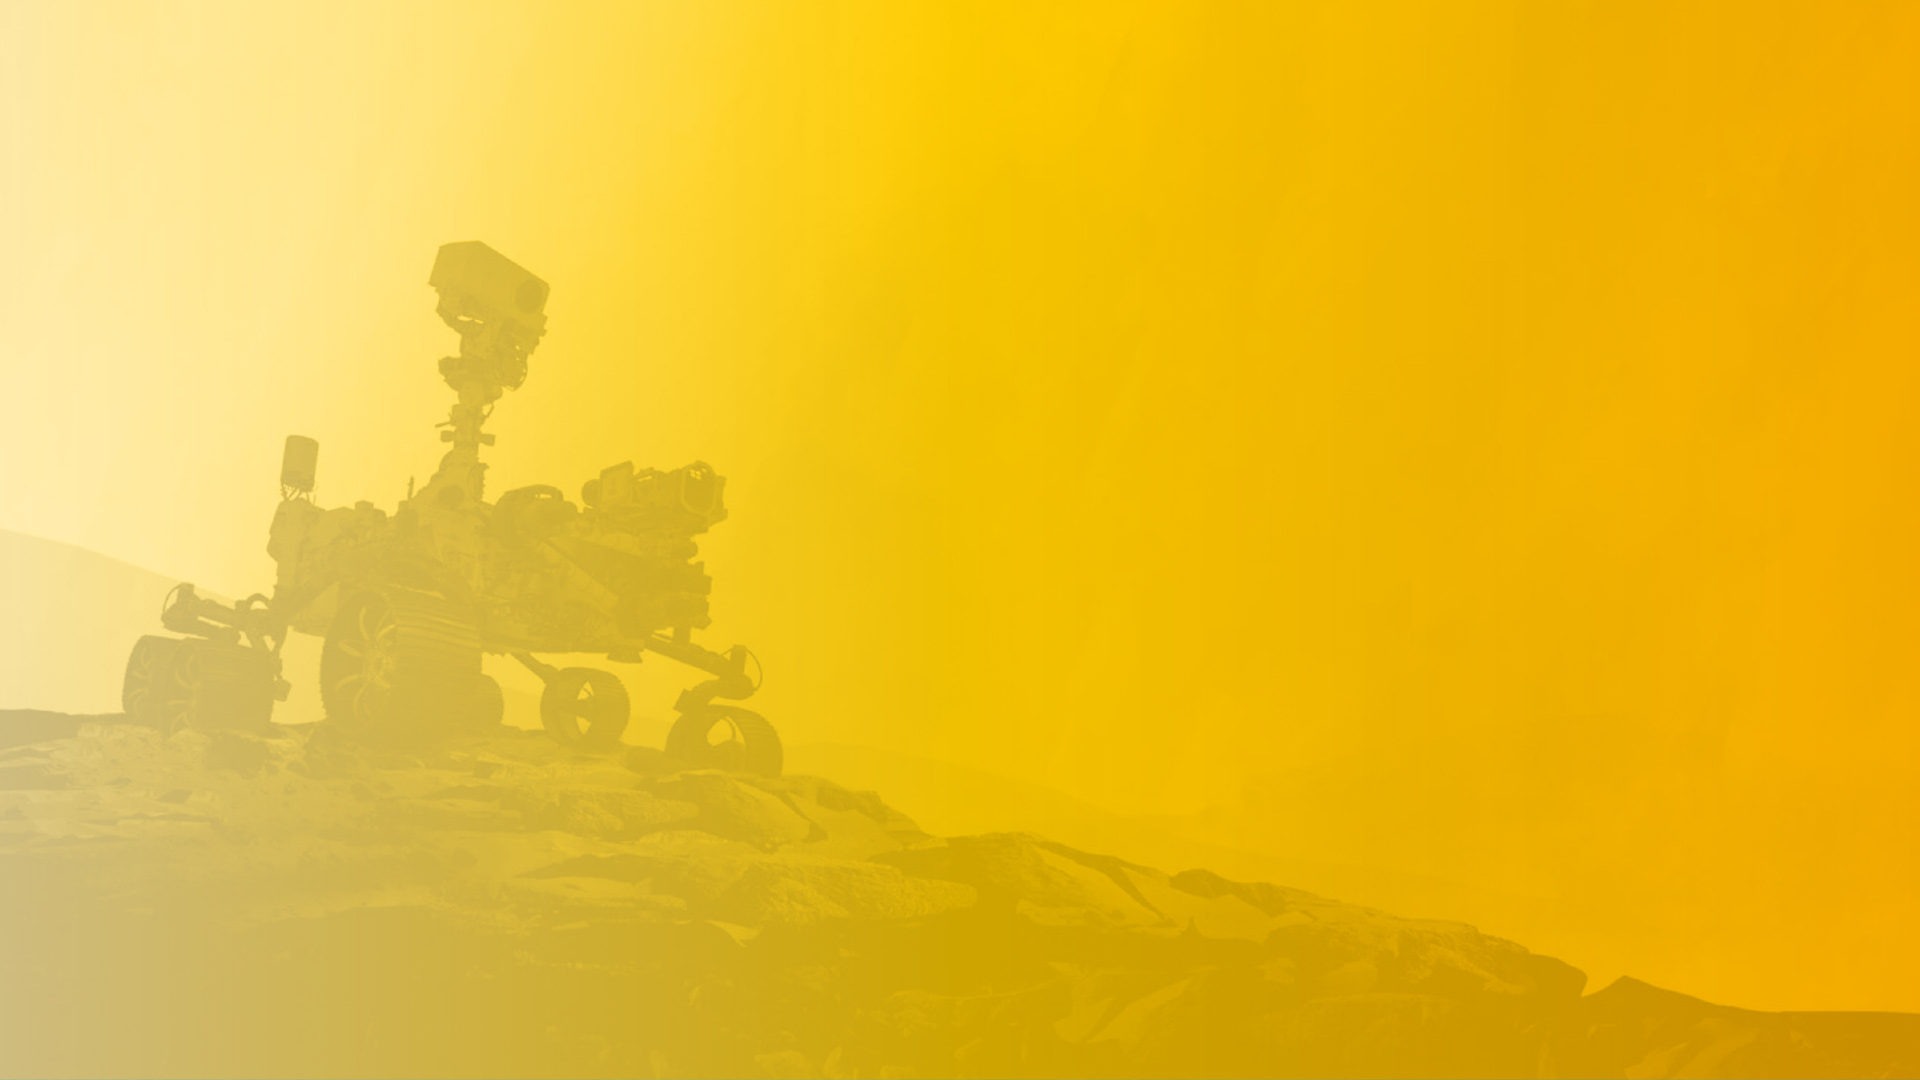
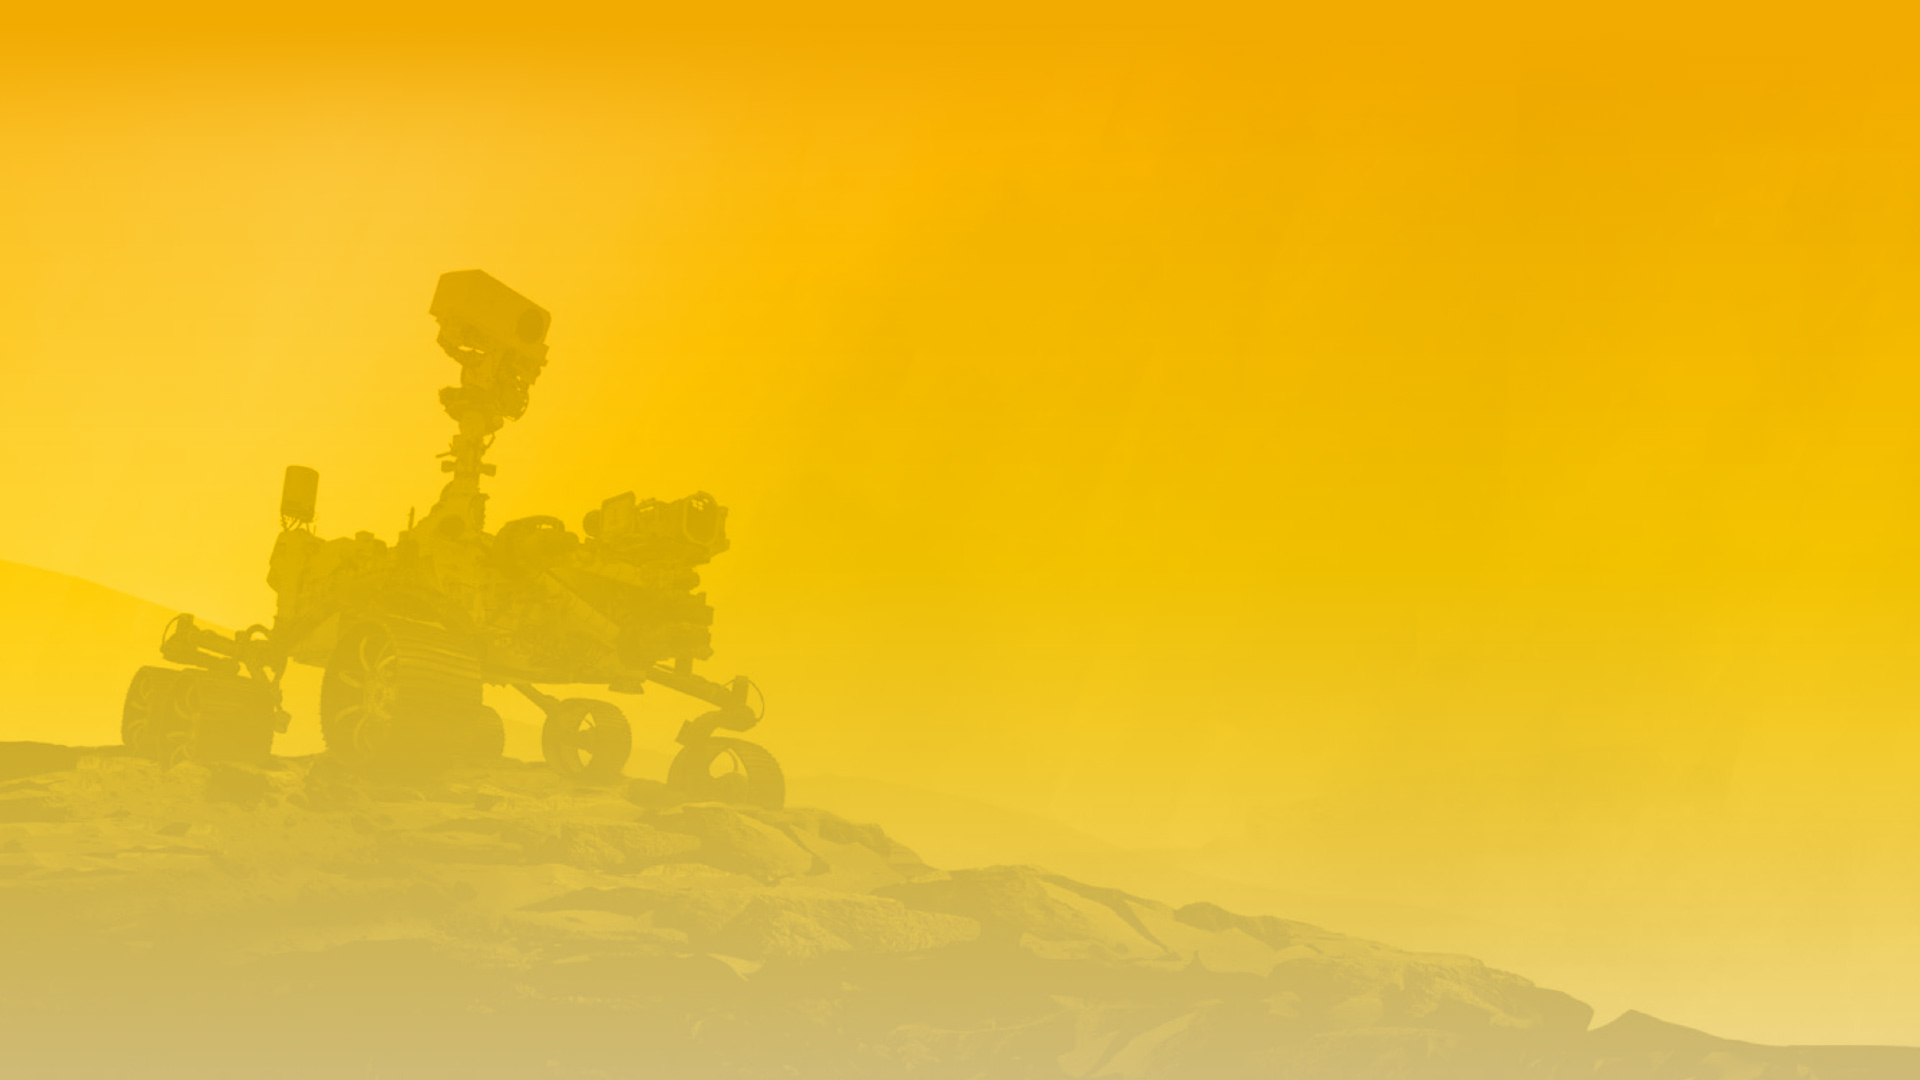
fix objective bg gradient issues

diff --git a/css/style.css b/css/style.css
@@ -188,9 +188,7 @@ html.is-leaving .transition-fade {
 .mission-objective-pg{
     background-image: url(../img/mars-yellow-bg.jpg);
     background-repeat: no-repeat;
-    /* background-color: #F1AE00; */
-    background: rgb(255,235,169);
-    background: linear-gradient(90deg, rgba(255,235,169,1) 0%, rgba(254,204,0,1) 52%, rgba(248,174,0,1) 100%);
+    background-color: #F1AE00;
 }
 
 .mission-pg{
@@ -230,7 +228,7 @@ html.is-leaving .transition-fade {
 
 .bgtext{
     position: absolute;
-    opacity: 0.3;
+    opacity: 0.2;
     z-index: -1;
     transition: all .8s;
 }
